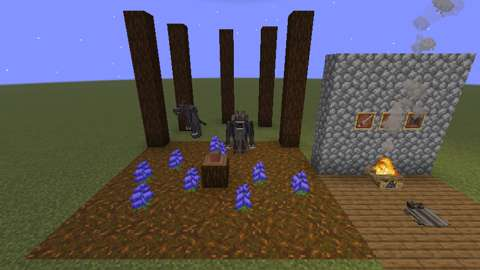
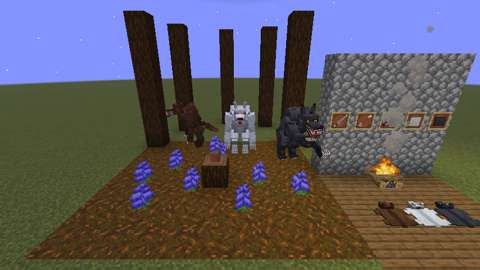
Fall addition 23: the three kinds' screenshots and CI results
New in-game screenshots from run 37154692054, with the shadow werewolf
stood clear of the trunk: dark grey with amber eyes, snarling beside the
snow werewolf; the three kinds in the clearing; the silver and the three
rugs. The verification record gives the high-detail art's runs: all 619
game tests and all three client shards pass on ebf5b4ec.

Claude-Session: https://claude.ai/code/session_0126hvNUCuThWzVv935m75NC

diff --git a/docs/features/even-more-fall-additions.md b/docs/features/even-more-fall-additions.md
@@ -302,7 +302,20 @@ Added after the record above, on the same branch. The model was rebuilt (128 × 
 7. a sprig in hand wards off a brown werewolf, not a shadow one; wolfsbane planted by its prey wards off the shadow one;
 8. each kind drops its own pelt; slaying a shadow werewolf earns Leader of the Pack, a brown one doesn't.
 
-Locally, `python3 tools/check_mod_data.py` passes with 1071 IDs. It now also compares each kind's tier, attributes and abilities, the pelt tables and haunts, and every box of the model with `tools/werewolf_model.py`. `python3 scripts/check_repository.py` passes. The build, the game tests and the client test with the three kinds have not run yet.
+Locally, `python3 tools/check_mod_data.py` passes with 1071 IDs. It now also compares each kind's tier, attributes and abilities, the pelt tables and haunts, and every box of the model with `tools/werewolf_model.py`. `python3 scripts/check_repository.py` passes.
+
+Then the textures were painted again at four times the detail (512 × 512, docs/ART_DIRECTION.md, "High resolution"): fur in locks and strands, ragged edges, pointed fangs and claws. Actual results:
+
+| Check | Result |
+| --- | --- |
+| `./gradlew build` on `d979eaf1` (run [37153477545](https://github.com/jimbozoomer-byte/jugcraft/actions/runs/37153477545)) | Pass |
+| Game tests, same run, including the 13 in `WerewolfGameTests` | **All pass** |
+| Client test, same run | **Passes**, but its picture showed the shadow werewolf red: the test had stood it in a spruce trunk, where it suffocated and flashed with hurt. Its texture is dark grey. `ebf5b4ec` stands it clear. |
+| `./gradlew build` on `ebf5b4ec` (run [37154692054](https://github.com/jimbozoomer-byte/jugcraft/actions/runs/37154692054)) | Pass |
+| Game tests on the headless server, same run: 619 in total | **All 619 pass** |
+| Client test, same run (all three shards) | **Passes** |
+
+The screenshots in [the guide](../branches/AGRICULTURE.md#full-moon-werewolves) come from run 37154692054: wolfsbane in the clearing; the silver framed above the fire with the three rugs (brown, snow and shadow); the snow werewolf facing the camera with the shadow werewolf snarling beside it; and the three kinds in the clearing. They are small software-rendered previews; the fur's finer detail shows best up close in a real client.
 
 ### Flying broomstick verification
 

diff --git a/docs/branches/AGRICULTURE.md b/docs/branches/AGRICULTURE.md
@@ -1054,11 +1054,11 @@ Ten more fall and Halloween additions, numbered on from the twenty before, one p
 
 ### Full-moon werewolves
 
-| **Wolfsbane** growing wild in a spruce clearing, and potted on a stump | **Silver** framed above the fire: the dagger, silver arrows and a pelt |
+| **Wolfsbane** growing wild in a spruce clearing, and potted on a stump | **Silver** framed above the fire, and the three rugs: brown, snow and shadow |
 | --- | --- |
 | ![Wolfsbane](../images/ingame_wolfsbane.jpg) | ![Silver and a pelt](../images/ingame_werewolf_rug_and_silver.jpg) |
-| **The three kinds** on a full-moon night: brown, snow and shadow | **In the clearing**, the shadow werewolf snarling |
-| ![Three werewolves](../images/ingame_werewolf.jpg) | ![The werewolves](../images/ingame_werewolves_full_moon.jpg) |
+| **Up close** on a full-moon night: the snow werewolf, and the shadow werewolf snarling | **The three kinds** in the clearing: brown, snow and shadow, and their rugs by the fire |
+| ![The snow and shadow werewolves](../images/ingame_werewolf.jpg) | ![Three werewolves](../images/ingame_werewolves_full_moon.jpg) |
 
 *Real screenshots from the client game test that CI runs (`WerewolfClientGameTests`, software rendering, small previews; the night is lit by night vision for the picture).*
 
